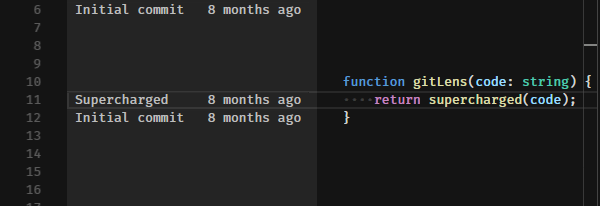
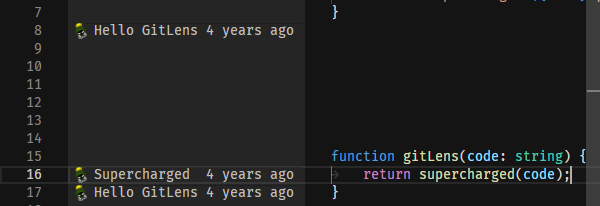
Updates gutter blame setting images

diff --git a/src/webviews/apps/settings/partials/blame.html b/src/webviews/apps/settings/partials/blame.html
@@ -188,29 +188,24 @@
 					data-visibility="blame.compact =false"
 				/>
 				<img
+					class="image__preview--overlay hidden"
+					src="#{root}/images/settings/blame-highlight.png"
+					data-visibility="blame.compact =false &amp; blame.highlight.enabled &amp; blame.highlight.locations +line"
+				/>
+				<img
 					class="image__preview hidden"
 					src="#{root}/images/settings/blame-compact.png"
 					data-visibility="blame.compact"
 				/>
 				<img
 					class="image__preview--overlay hidden"
-					src="#{root}/images/settings/blame-avatars.png"
-					data-visibility="blame.avatars &amp; blame.compact =false"
-				/>
-				<img
-					class="image__preview--overlay hidden"
-					src="#{root}/images/settings/blame-avatars-compact.png"
-					data-visibility="blame.avatars &amp; blame.compact"
+					src="#{root}/images/settings/blame-compact-highlight.png"
+					data-visibility="blame.compact &amp; blame.highlight.enabled &amp; blame.highlight.locations +line"
 				/>
 				<img
 					class="image__preview--overlay hidden"
 					src="#{root}/images/settings/blame-highlight-gutter.png"
 					data-visibility="blame.highlight.enabled &amp; blame.highlight.locations +gutter"
-				/>
-				<img
-					class="image__preview--overlay hidden"
-					src="#{root}/images/settings/blame-highlight-line.png"
-					data-visibility="blame.highlight.enabled &amp; blame.highlight.locations +line"
 				/>
 				<img
 					class="image__preview--overlay hidden"
